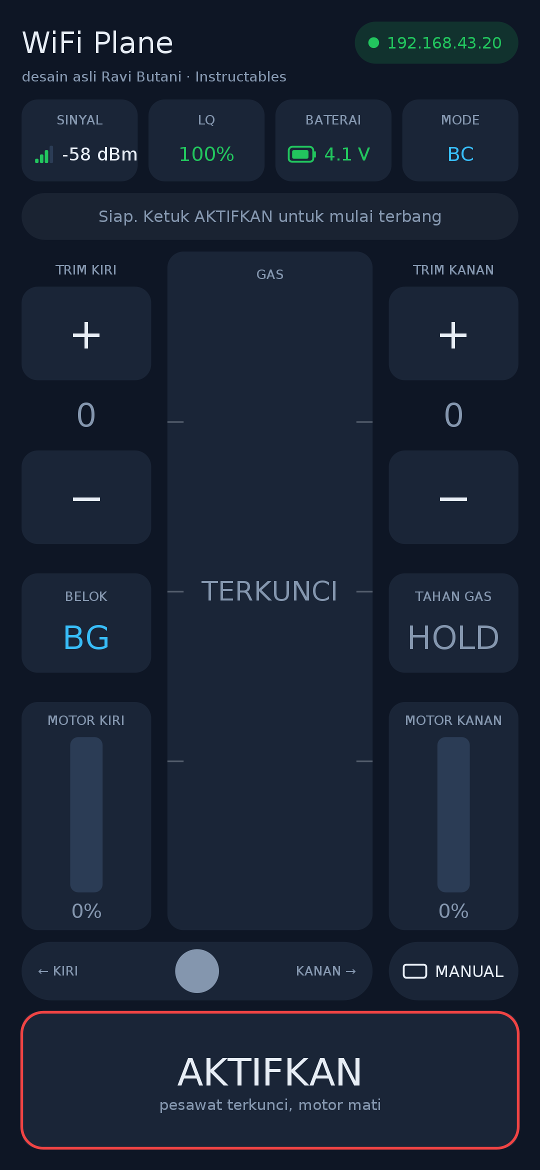
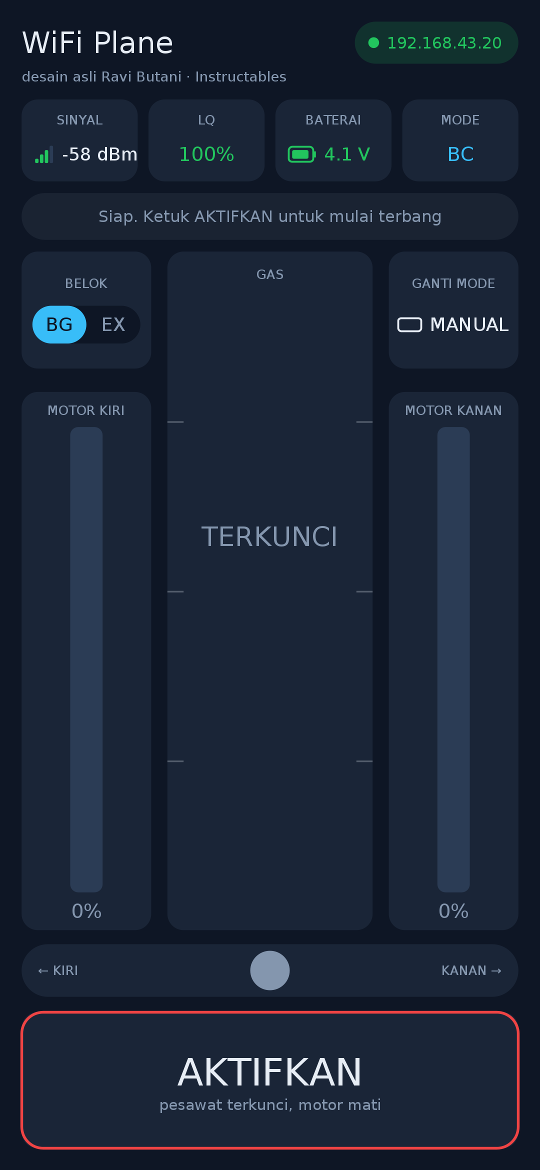
Simplify the remote: drop HOLD, trims only in MANUAL and saved
Portrait (MIRING, tilt steering): no trim and no HOLD. BELOK and the
mode switch sit as two cards above tall left/right motor bars that
flank the gas slider, with the tilt indicator full width below.

Landscape (MANUAL): no HOLD and no motor bars. BELOK and AKTIFKAN on
the left, two trim steppers above the steering slider on the right
for the right thumb; the mode switch joins the status chip row.

Trims now apply only in MANUAL, are limited to +/-30, and are saved to
SharedPreferences on every tap and loaded at startup, so they survive
closing the app. BG/EX is drawn as a two-segment toggle. The packet
function is unchanged.

Claude-Session: https://claude.ai/code/session_01W8D9ecBaicbRhRCFCTcMfM

diff --git a/README.md b/README.md
@@ -16,7 +16,7 @@ Kode hasil modifikasi untuk ESP-12E yang menjalankan [WIFI-CONTROLLED-RC-PLANE](
 
 * Samakan `BIND_ID` di sketch dan aplikasi, supaya HP atau pesawat lain yang memakai kode ini tidak bisa mengendalikan pesawat Anda.
 
-* Build ulang aplikasi dari `ProcessingAndroidApp/wifiplane/wifiplane.pde` di Processing (mode Android). File `wifiplane.apk` bawaan adalah versi lama dan tidak bisa dipakai dengan firmware ini. Izin yang dibutuhkan aplikasi ada di `AndroidManifest.xml`, dan izin yang kurang ditampilkan di layar. File itu juga berisi `android:configChanges` supaya aplikasi tidak restart saat ganti mode MIRING / MANUAL. Kalau Anda menyalin kode ke sketch sendiri, salin juga `AndroidManifest.xml` ke folder sketch itu (atau tambahkan atribut `android:configChanges` dari file ini ke `<activity>` di manifest Anda). Tanpa itu, ganti mode tetap jalan tapi Android membuat ulang aplikasi, sehingga trim dan BG/EX kembali ke awal.
+* Build ulang aplikasi dari `ProcessingAndroidApp/wifiplane/wifiplane.pde` di Processing (mode Android). File `wifiplane.apk` bawaan adalah versi lama dan tidak bisa dipakai dengan firmware ini. Izin yang dibutuhkan aplikasi ada di `AndroidManifest.xml`, dan izin yang kurang ditampilkan di layar. File itu juga berisi `android:configChanges` supaya aplikasi tidak restart saat ganti mode MIRING / MANUAL. Kalau Anda menyalin kode ke sketch sendiri, salin juga `AndroidManifest.xml` ke folder sketch itu (atau tambahkan atribut `android:configChanges` dari file ini ke `<activity>` di manifest Anda). Tanpa itu, ganti mode tetap jalan tapi Android membuat ulang aplikasi, sehingga BG/EX kembali ke BG (trim tetap, karena disimpan).
 
 **Mode WiFi**
 
@@ -64,23 +64,23 @@ Kode hasil modifikasi untuk ESP-12E yang menjalankan [WIFI-CONTROLLED-RC-PLANE](
 
 **Tampilan remote**
 
-Ada dua mode kemudi:
+Ada dua mode kemudi, diganti dengan tombol GANTI MODE saat terkunci:
 
-* MIRING (layar potret): belok dengan memiringkan HP, gas di slider tengah.
+* MIRING (layar potret): belok dengan memiringkan HP (sensor accelerometer), gas di slider tengah. Tanpa trim.
 
-* MANUAL (layar landscape): gas di slider kiri (ibu jari kiri, geser ke atas), belok di slider horizontal kanan-bawah (ibu jari kanan, geser ke kiri/kanan).
+* MANUAL (layar landscape): gas di slider kiri (ibu jari kiri, geser ke atas), belok di slider horizontal kanan-bawah (ibu jari kanan, geser ke kiri/kanan), trim di atas slider belok.
 
 Mode MIRING:
 
-| Siap | Terbang | HOLD, sinyal lemah | Link putus |
+| Siap | Terbang, belok kiri | Sinyal lemah | Link putus |
 |---|---|---|---|
-| ![Siap](ProcessingAndroidApp/tampilan/1_siap.png) | ![Terbang](ProcessingAndroidApp/tampilan/2_terbang.png) | ![HOLD](ProcessingAndroidApp/tampilan/3_hold_sinyal_lemah.png) | ![Link putus](ProcessingAndroidApp/tampilan/4_link_putus.png) |
+| ![Siap](ProcessingAndroidApp/tampilan/1_siap.png) | ![Terbang](ProcessingAndroidApp/tampilan/2_terbang.png) | ![Sinyal lemah](ProcessingAndroidApp/tampilan/3_sinyal_lemah.png) | ![Link putus](ProcessingAndroidApp/tampilan/4_link_putus.png) |
 
 Mode MANUAL:
 
-| Terbang, belok kanan | HOLD, belok kiri penuh, sinyal lemah |
+| Terbang, belok kanan | Belok kiri penuh, sinyal lemah |
 |---|---|
-| ![Manual terbang](ProcessingAndroidApp/tampilan/5_manual_terbang.png) | ![Manual HOLD](ProcessingAndroidApp/tampilan/6_manual_hold_sinyal_lemah.png) |
+| ![Manual terbang](ProcessingAndroidApp/tampilan/5_manual_terbang.png) | ![Manual sinyal lemah](ProcessingAndroidApp/tampilan/6_manual_sinyal_lemah.png) |
 
 Gambar di atas dirender dari kode `draw()` yang sama; huruf di HP bisa sedikit berbeda.
 
@@ -88,27 +88,27 @@ Gambar di atas dirender dari kode `draw()` yang sama; huruf di HP bisa sedikit b
 
 * Di bawahnya muncul satu pesan kalau ada yang perlu diperhatikan: link putus, baterai lemah, sinyal lemah, izin kurang, atau petunjuk saat siap terbang.
 
-* Tombol trim, tombol BELOK (BG/EX), tombol HOLD, dan output motor kiri dan kanan dalam persen, dihitung dengan rumus yang sama dengan paket yang dikirim.
+* BELOK: pilihan BG (belok halus) atau EX (belok tajam), yang aktif disorot. Ketuk untuk mengganti. Berlaku di kedua mode.
 
-* Mode MIRING: indikator belok dari kemiringan HP di bawah slider gas. Mode MANUAL: slider belok di kanan-bawah, tepat di bawah tombol HOLD.
+* GANTI MODE: ikonnya menunjukkan posisi HP setelah diganti (MANUAL = landscape, MIRING = potret).
 
-* Tombol ganti mode: MANUAL (potret, di samping indikator belok) dan MIRING (landscape, di samping chip status). Ikonnya menunjukkan posisi HP setelah diganti.
+* Mode MIRING: output motor kiri dan kanan dalam persen di kiri-kanan slider gas (dihitung dengan rumus yang sama dengan paket yang dikirim), dan indikator kemiringan HP di bawahnya.
 
-* Tombol AKTIFKAN / AKTIF.
+* Mode MANUAL: trim kiri dan kanan ([−] nilai [+]) di atas slider belok, supaya bisa diketuk ibu jari kanan. AKTIFKAN di kiri-bawah, jauh dari titik ibu jari kanan.
 
 * Setiap tombol bergetar singkat saat diketuk.
 
 **Kendali dan keselamatan**
 
-* Multi-touch: setiap jari dibaca sendiri, jadi gas, belok dan tombol bisa dipakai bersamaan, misalnya menahan gas sambil mengetuk HOLD atau trim dengan jari lain.
+* Multi-touch: setiap jari dibaca sendiri, jadi gas, belok dan tombol bisa dipakai bersamaan, misalnya menahan gas sambil mengetuk trim atau BG/EX dengan jari lain.
 
 * Gas: sentuh dan geser slider gas, atas = penuh. Gas langsung mengikuti jari saat slider disentuh, dan hanya jari yang mulai menyentuh di slider saat AKTIF yang mengubah gas; jari lain yang ikut menyentuh slider diabaikan. Jari gas diangkat membuat gas menjadi 0, walaupun jari lain masih menyentuh layar, sehingga motor mati saat pesawat jatuh. Saat gas 0, kedua motor mati, apa pun kemiringan, slider belok dan trim-nya.
 
 * Belok (mode MANUAL): kenop mengikuti jari, ujung slider sama dengan HP miring 90 derajat di mode MIRING, dan BG/EX tetap berlaku. Jari diangkat membuat pesawat lurus lagi. Ada zona mati kecil di tengah. Di mode MANUAL kemiringan HP tidak dipakai.
 
-* HOLD (oranye saat aktif, hanya saat AKTIF): gas ditahan walaupun jari diangkat, sehingga trim atau BG/EX bisa diatur saat terbang. Ketuk lagi untuk mematikannya, yang juga membuat gas menjadi 0; kalau jari masih di slider gas, angkat dulu untuk memberi gas lagi.
+* Trim (hanya mode MANUAL): TRIM KIRI menambah motor kanan (pesawat cenderung ke kiri), TRIM KANAN menambah motor kiri. Batas ±30 per trim. Nilainya disimpan di memori aplikasi setiap kali diketuk, jadi tetap ada saat aplikasi ditutup dan dibuka lagi. Di mode MIRING trim tidak dipakai.
 
-* AKTIFKAN / AKTIF mengunci dan membuka kendali. Mengunci juga mematikan HOLD dan membuat gas menjadi 0. Jari yang sudah ada di slider gas saat AKTIFKAN diketuk tidak memberi gas; angkat dan sentuh lagi.
+* AKTIFKAN / AKTIF mengunci dan membuka kendali. Mengunci membuat gas menjadi 0. Jari yang sudah ada di slider gas saat AKTIFKAN diketuk tidak memberi gas; angkat dan sentuh lagi.
 
 * Ganti mode hanya bisa saat terkunci. Saat AKTIF, tombolnya redup dan muncul pesan "Kunci dulu untuk ganti mode". Layar landscape dikunci ke satu arah (tidak ikut sensor), jadi tidak berputar sendiri saat terbang. Kalau bentuk layar tetap berubah saat AKTIF (misalnya layar terpisah), kendali langsung dikunci.
 
